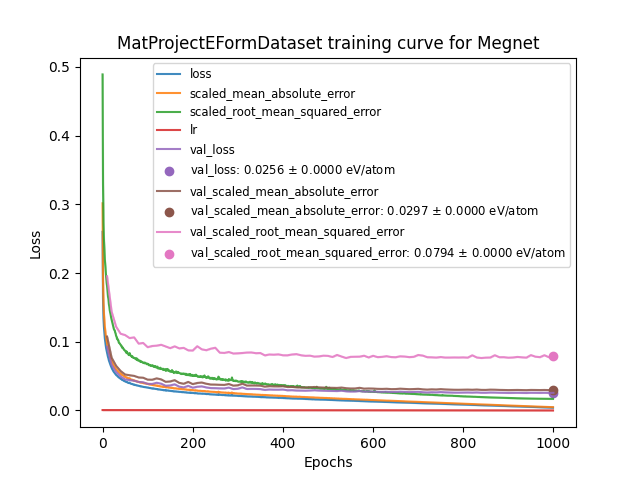
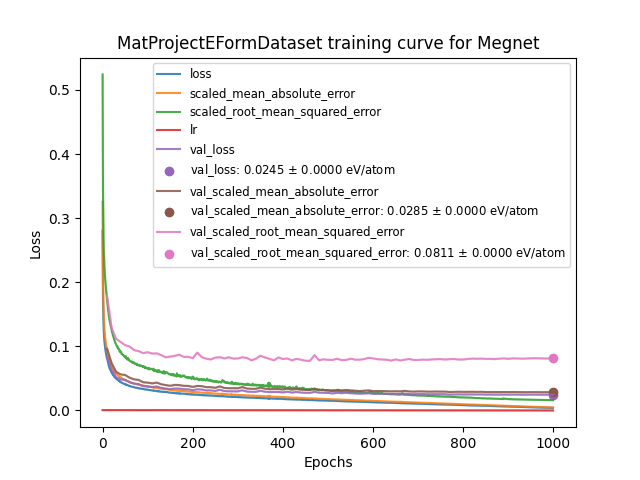
add comments to `set_range_periodic`

diff --git a/training/hyper/hyper_mp_e_form.py b/training/hyper/hyper_mp_e_form.py
@@ -58,7 +58,7 @@ hyper = {
                 "module_name": "kgcnn.data.datasets.MatProjectEFormDataset",
                 "config": {},
                 "methods": [
-                    {"map_list": {"method": "set_range_periodic", "max_distance": 4.0}}
+                    {"map_list": {"method": "set_range_periodic", "max_distance": 4.0, "max_neighbours": 20}}
                 ]
             },
             "data_unit": "eV/atom"
